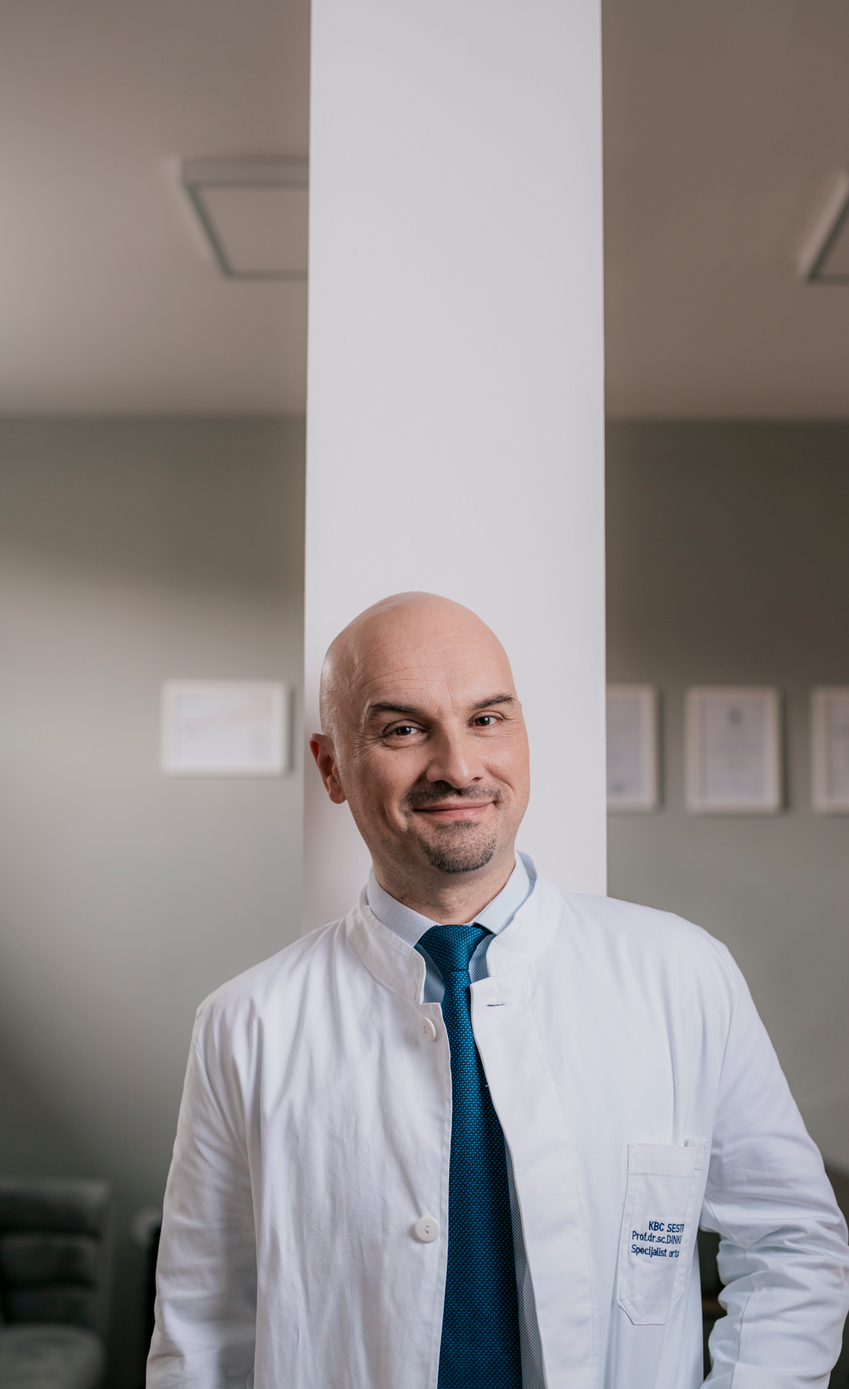
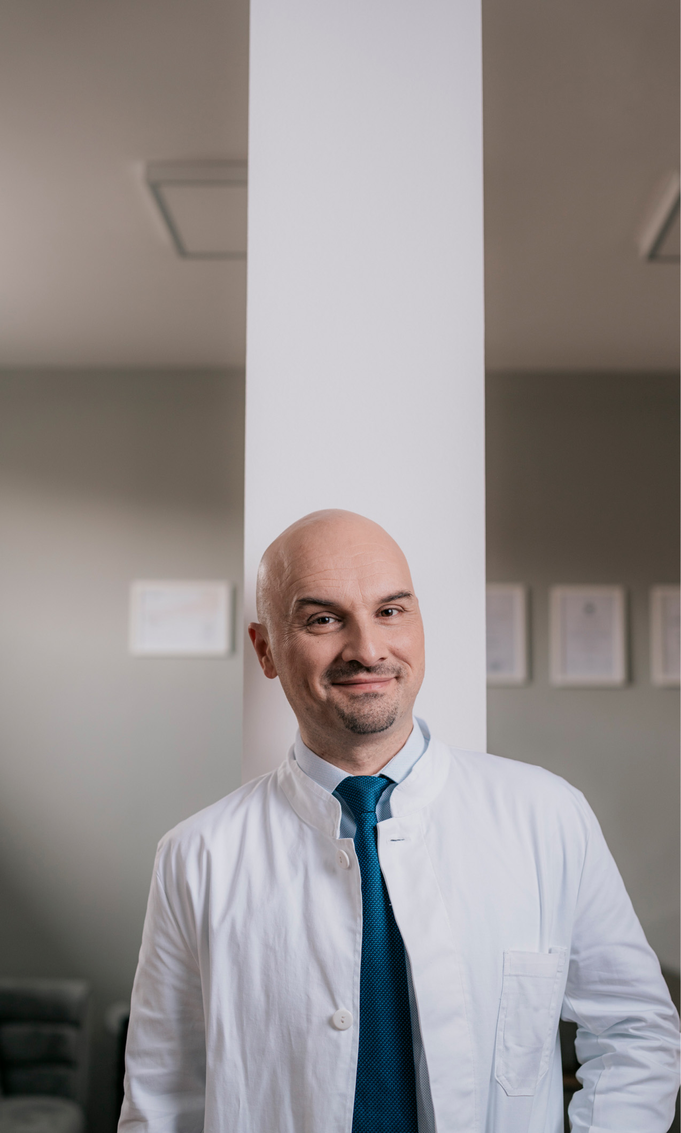
work on video section

diff --git a/src/app/sections/VideoCitat.tsx b/src/app/sections/VideoCitat.tsx
@@ -24,36 +24,41 @@ const VideoCitat = () => {
     <section className='w-full 2xl:mt-14 xl:mt-10 lg:mt-6 mt-2'>
       <div
         style={{ backgroundImage: `url(${dinkoVideoPatternBg.src})` }}
-        className='relative w-full h-full  flex items-center justify-center bg-cover bg-no-repeat bg-center'
+        className='relative w-full h-full  flex items-center justify-center bg-cover bg-no-repeat bg-center xl:min-h-[1063px]'
       >
-        <div className='max-w-max-container my-0 mx-auto relative 2xl:py-24 py-20 '>
-          <div className='w-full flex place-items-center xl:justify-between justify-center xl:flex-nowrap flex-wrap relative xl:gap-0 gap-8'>
-            <p className='text-alt-bila leading-tight md:text-3xl sm:text-2xl 2xl:pb-0 pb-4  text-lg z-10 text-balance xl:max-w-[613px] w-full relative shrink-1 md:pl-12 pl-16 pr-4 max-w-[40ch]'>
-              <Image
-                src={videoPatternQuote}
+        <div className='w-full  my-0 mx-auto relative 2xl:py-24 py-20 md:px-8'>
+          <div className='w-full flex place-items-center xl:justify-between justify-center xl:flex-nowrap flex-wrap-reverse relative xl:gap-[116px] md:gap-[81px] gap-[42px]'>
+            <picture>
+              <img
+                src={videoPatternQuote.src}
                 alt='decorative quote pattern'
-                className='absolute 2xl:-left-[7%] xl:-left-6 lg:left-2 left-1 -top-[30%] 2xl:w-24 2xl:h-24 xl:w-20 xl:h-20 lg:w-16 lg:h-16 w-14 h-14'
+                className='absolute top-[-20px] left-[2%] xl:block hidden'
+                width={196}
+                height={196}
               />
+            </picture>
+            <h2 className='text-alt-bila md:leading-[141%] leading-[134%] md:text-[36px] text-[26px] z-10 xl:max-w-[613px] w-full relative shrink-1  block md:px-0 px-3'>
               {langTriage(
                 `Kretanje je nužno za zdrav, kvalitetan i ispunjen život. Pritom je važno da se krećemo u punom opsegu
               kretnji, bez bolova i ograničenja. Važno je da se krećemo s lakoćom.`,
                 `Movement is essential for a healthy, quality, and fulfilling life. It is important to move with a full range of motion, without pain and limitations. It is crucial to move with ease.`
               )}
-            </p>
+            </h2>
 
-            <div className='relative w-full aspect-video '>
-              <Image
-                src={imageOfDinkoThumb}
-                alt='picture of Dinko as thumbnail for video'
-                className='w-full aspect-video  object-left object-cover'
-                width={981}
-                height={549}
-                quality={100}
-              />
+            <div className='relative w-full '>
+              <picture className='w-full block shrink-0'>
+                <img
+                  src={imageOfDinkoThumb.src}
+                  alt='picture of Dinko as thumbnail for video'
+                  className='w-full aspect-auto  object-center object-cover block xl:h-[724px]'
+                  width={981}
+                  height={724}
+                />
+              </picture>
               <Image
                 src={playButton}
                 alt='play button icon'
-                className='absolute top-1/2 left-1/2 -translate-x-1/2 -translate-y-1/2 object-contain xl:w-32 xl:h-32 lg:w-28 lg:h-28 w-20 h-20'
+                className='absolute top-1/2 left-1/2 -translate-x-1/2 -translate-y-1/2 object-contain xl:w-32 xl:h-32 lg:w-28 lg:h-28 w-20 h-20 cursor-pointer hover:motion-preset-pulse-sm motion-ease-spring-smooth'
                 width={132}
                 height={132}
                 onClick={() => setOpen(true)}

diff --git a/src/app/components/AppHeader.tsx b/src/app/components/AppHeader.tsx
@@ -119,7 +119,7 @@ const AppHeader = () => {
                               key={index}
                               className='relative cursor-pointer group transition-all duration-300 ease-custom-ease-in-out py-2 border border-dinko-tamnoplava/5'
                             >
-                              <span className='flex items-center gap-1 group px-4 '>
+                              <span className='flex items-center gap-3 group px-4 '>
                                 <PlusIcon className='transition-all duration-300 ease-custom-ease-in-out group-hover:text-dinko-plava group-hover:rotate-45' />
                                 <span className='transition-all duration-300 ease-custom-ease-in-out group-hover:text-dinko-plava'>
                                   {checkParams === UserLanguage.hr ? operacija.titleHr : operacija.titleEn}
